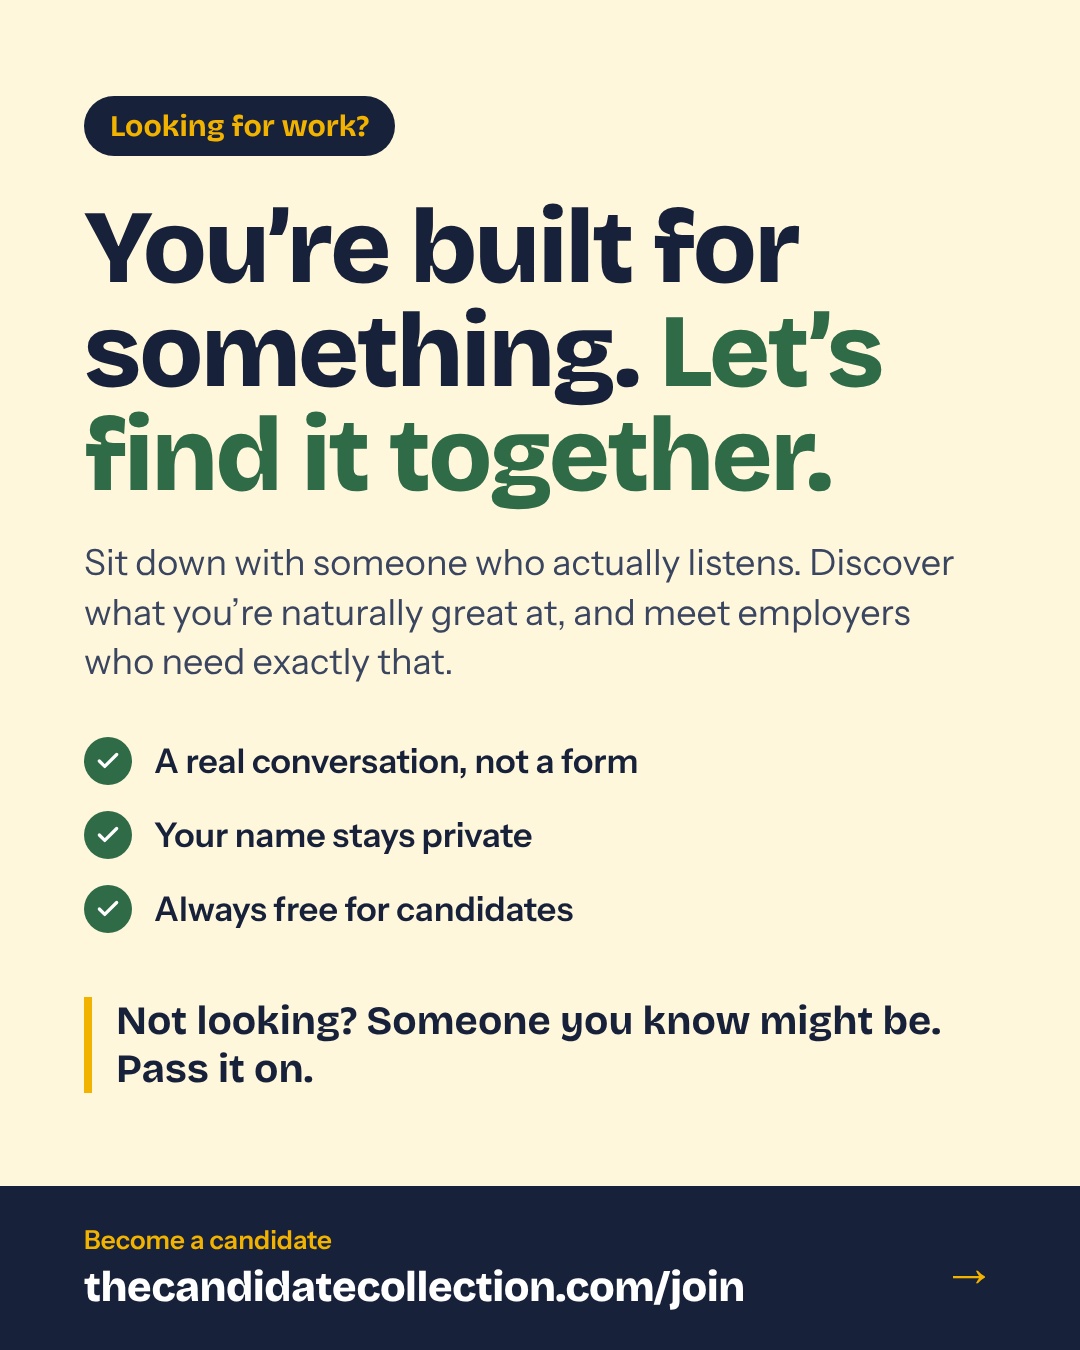
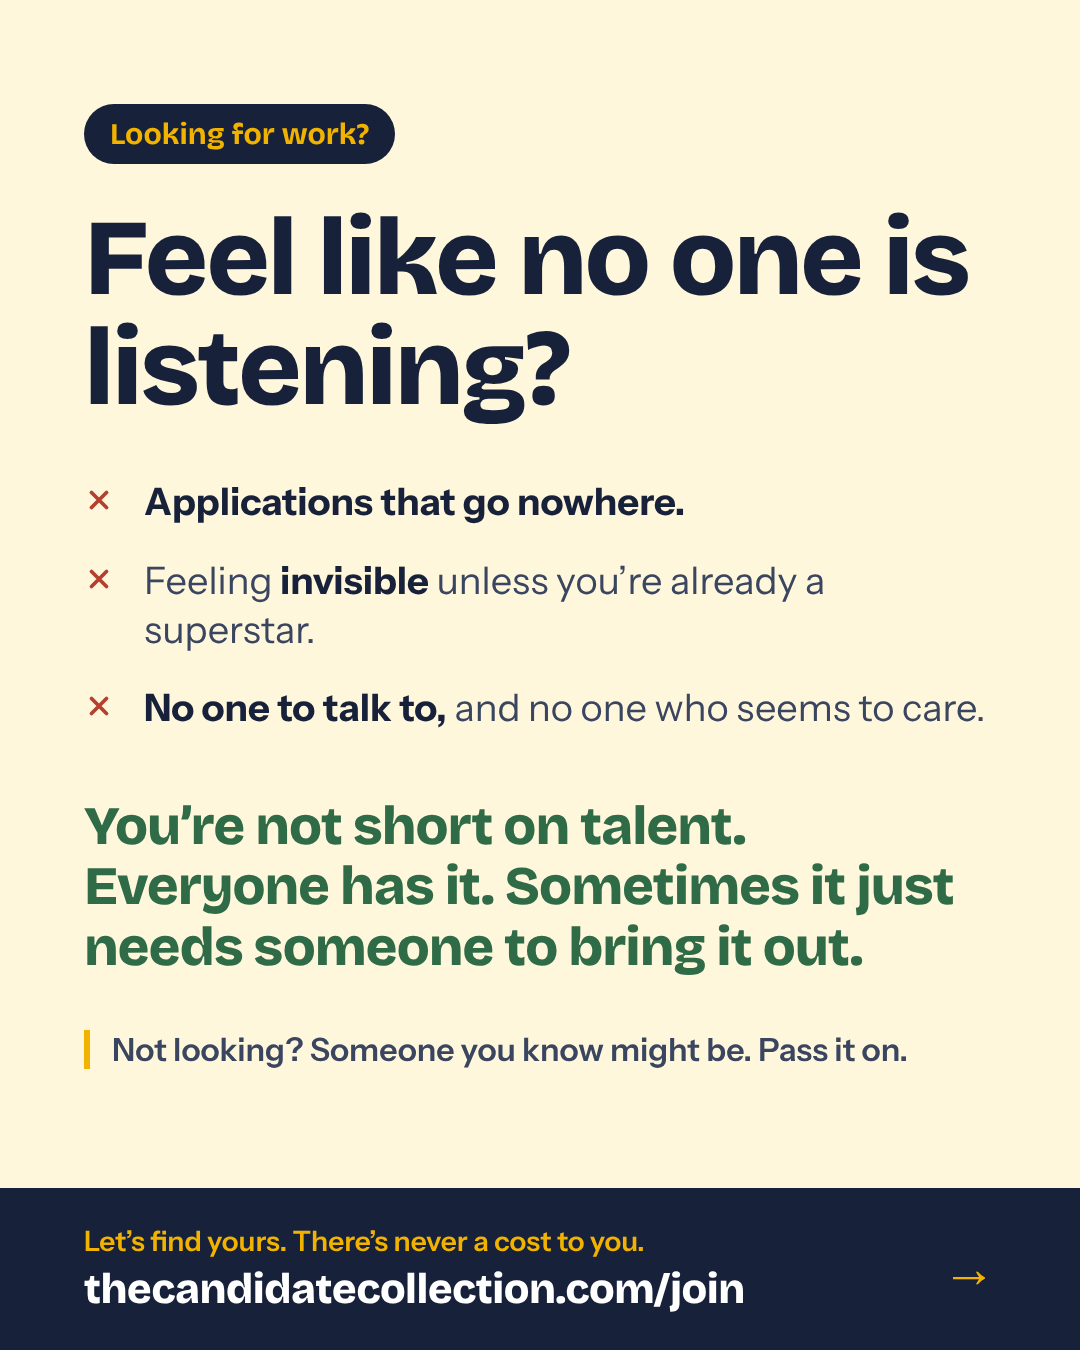
Candidate message: teaser graphic, share message, link preview and 'We hear you' on the candidate page
Claude-Session: https://claude.ai/code/session_01EZeEyNzeQFPN4DFsUvzuMe

diff --git a/src/app/join/page.tsx b/src/app/join/page.tsx
@@ -11,9 +11,9 @@ export const metadata: Metadata = {
   // Candidates' own link preview, without the employer picture.
   openGraph: {
     type: "website",
-    title: "You're built for something. Let's find it together.",
-    description: "Free for job seekers. Sit down with us, discover what you're naturally great at, and meet employers who need exactly that.",
-    images: [{ url: "/share/og-candidate.png", width: 1200, height: 630, alt: "You're built for something. Let's find it together." }],
+    title: "Looking for work? Feel like no one is listening?",
+    description: "Everyone has talent. Sometimes it just needs someone to bring it out. Let's find yours.",
+    images: [{ url: "/share/og-candidate.png", width: 1200, height: 630, alt: "Looking for work? Feel like no one is listening? Everyone has talent." }],
   },
   twitter: { card: "summary_large_image", images: ["/share/og-candidate.png"] },
 };
@@ -87,6 +87,31 @@ export default function JoinPage() {
             </div>
           </div>
           <YourPagePeek />
+        </div>
+      </section>
+
+      <section className={styles.heard}>
+        <div className={`wrap ${styles.heardInner}`}>
+          <h2 className={styles.h2}>We hear you.</h2>
+          <p>
+            Looking for work can feel lonely. Applications disappear. Nobody calls back. It can feel like the world only has
+            time for people who are already at the top.
+          </p>
+          <h3>Here&rsquo;s what we believe.</h3>
+          <p>
+            Everyone has talent: unique, God-given strengths. The quiet person who notices everything has real value. So
+            does the one who talks a lot and gets everyone moving. The key is knowing your nature, what our tradition calls{" "}
+            <em>techunos hanefesh</em>, the qualities of the soul.
+          </p>
+          <h3>That&rsquo;s what we do.</h3>
+          <p>
+            Using proven methods, we sit with you and help you understand what you&rsquo;re naturally great at, and the kind of
+            role where it fits. Then we guide you and put you in front of business owners who are looking for exactly your
+            kind of talent.
+          </p>
+          <p className={styles.heardNote}>
+            And it never costs you a thing. The business owners who hire cover our fee, so our only job is to help you shine.
+          </p>
         </div>
       </section>
 

diff --git a/src/lib/shareKit.ts b/src/lib/shareKit.ts
@@ -31,7 +31,7 @@ export function candidateLink(ref?: string | null) {
 }
 
 export function candidateMessage(ref?: string | null) {
-  return `I help people find work that truly fits them. It starts with a real conversation about what you're great at. Your name stays private, and it's always free.\n\nIf you're looking, or know someone who is, here's where to start:\n${candidateLink(ref)}`;
+  return `Looking for work, or know someone who is? Everyone has a talent. We sit down with you, help you discover yours and the role it belongs in, then put you in front of business owners looking for exactly that. It costs you nothing: the business owners cover our fee. And it's completely private.\n\n${candidateLink(ref)}`;
 }
 
 // A new candidate who came through a rep's link: that rep brought them in.

diff --git a/src/app/join/join.module.css b/src/app/join/join.module.css
@@ -131,3 +131,12 @@
   .six { grid-template-columns: 1fr 1fr; }
   .six span { font-size: 15px; padding: 14px; }
 }
+
+/* "We hear you": the heart of our message to candidates */
+.heard { padding: clamp(48px, 7vw, 88px) 0; background: var(--paper); }
+.heardInner { max-width: 760px; }
+.heard h3 { font-size: clamp(21px, 2.4vw, 26px); margin: 30px 0 8px; }
+.heard p { font-size: 19px; line-height: 1.7; color: var(--ink-2); margin: 0; }
+.heard em { font-style: italic; color: var(--ink); }
+.heardNote { margin-top: 26px !important; padding: 18px 20px; background: var(--moss-soft); border-radius: 14px; color: var(--ink) !important; font-weight: 600; }
+.heard .h2 { margin-bottom: 14px; }
